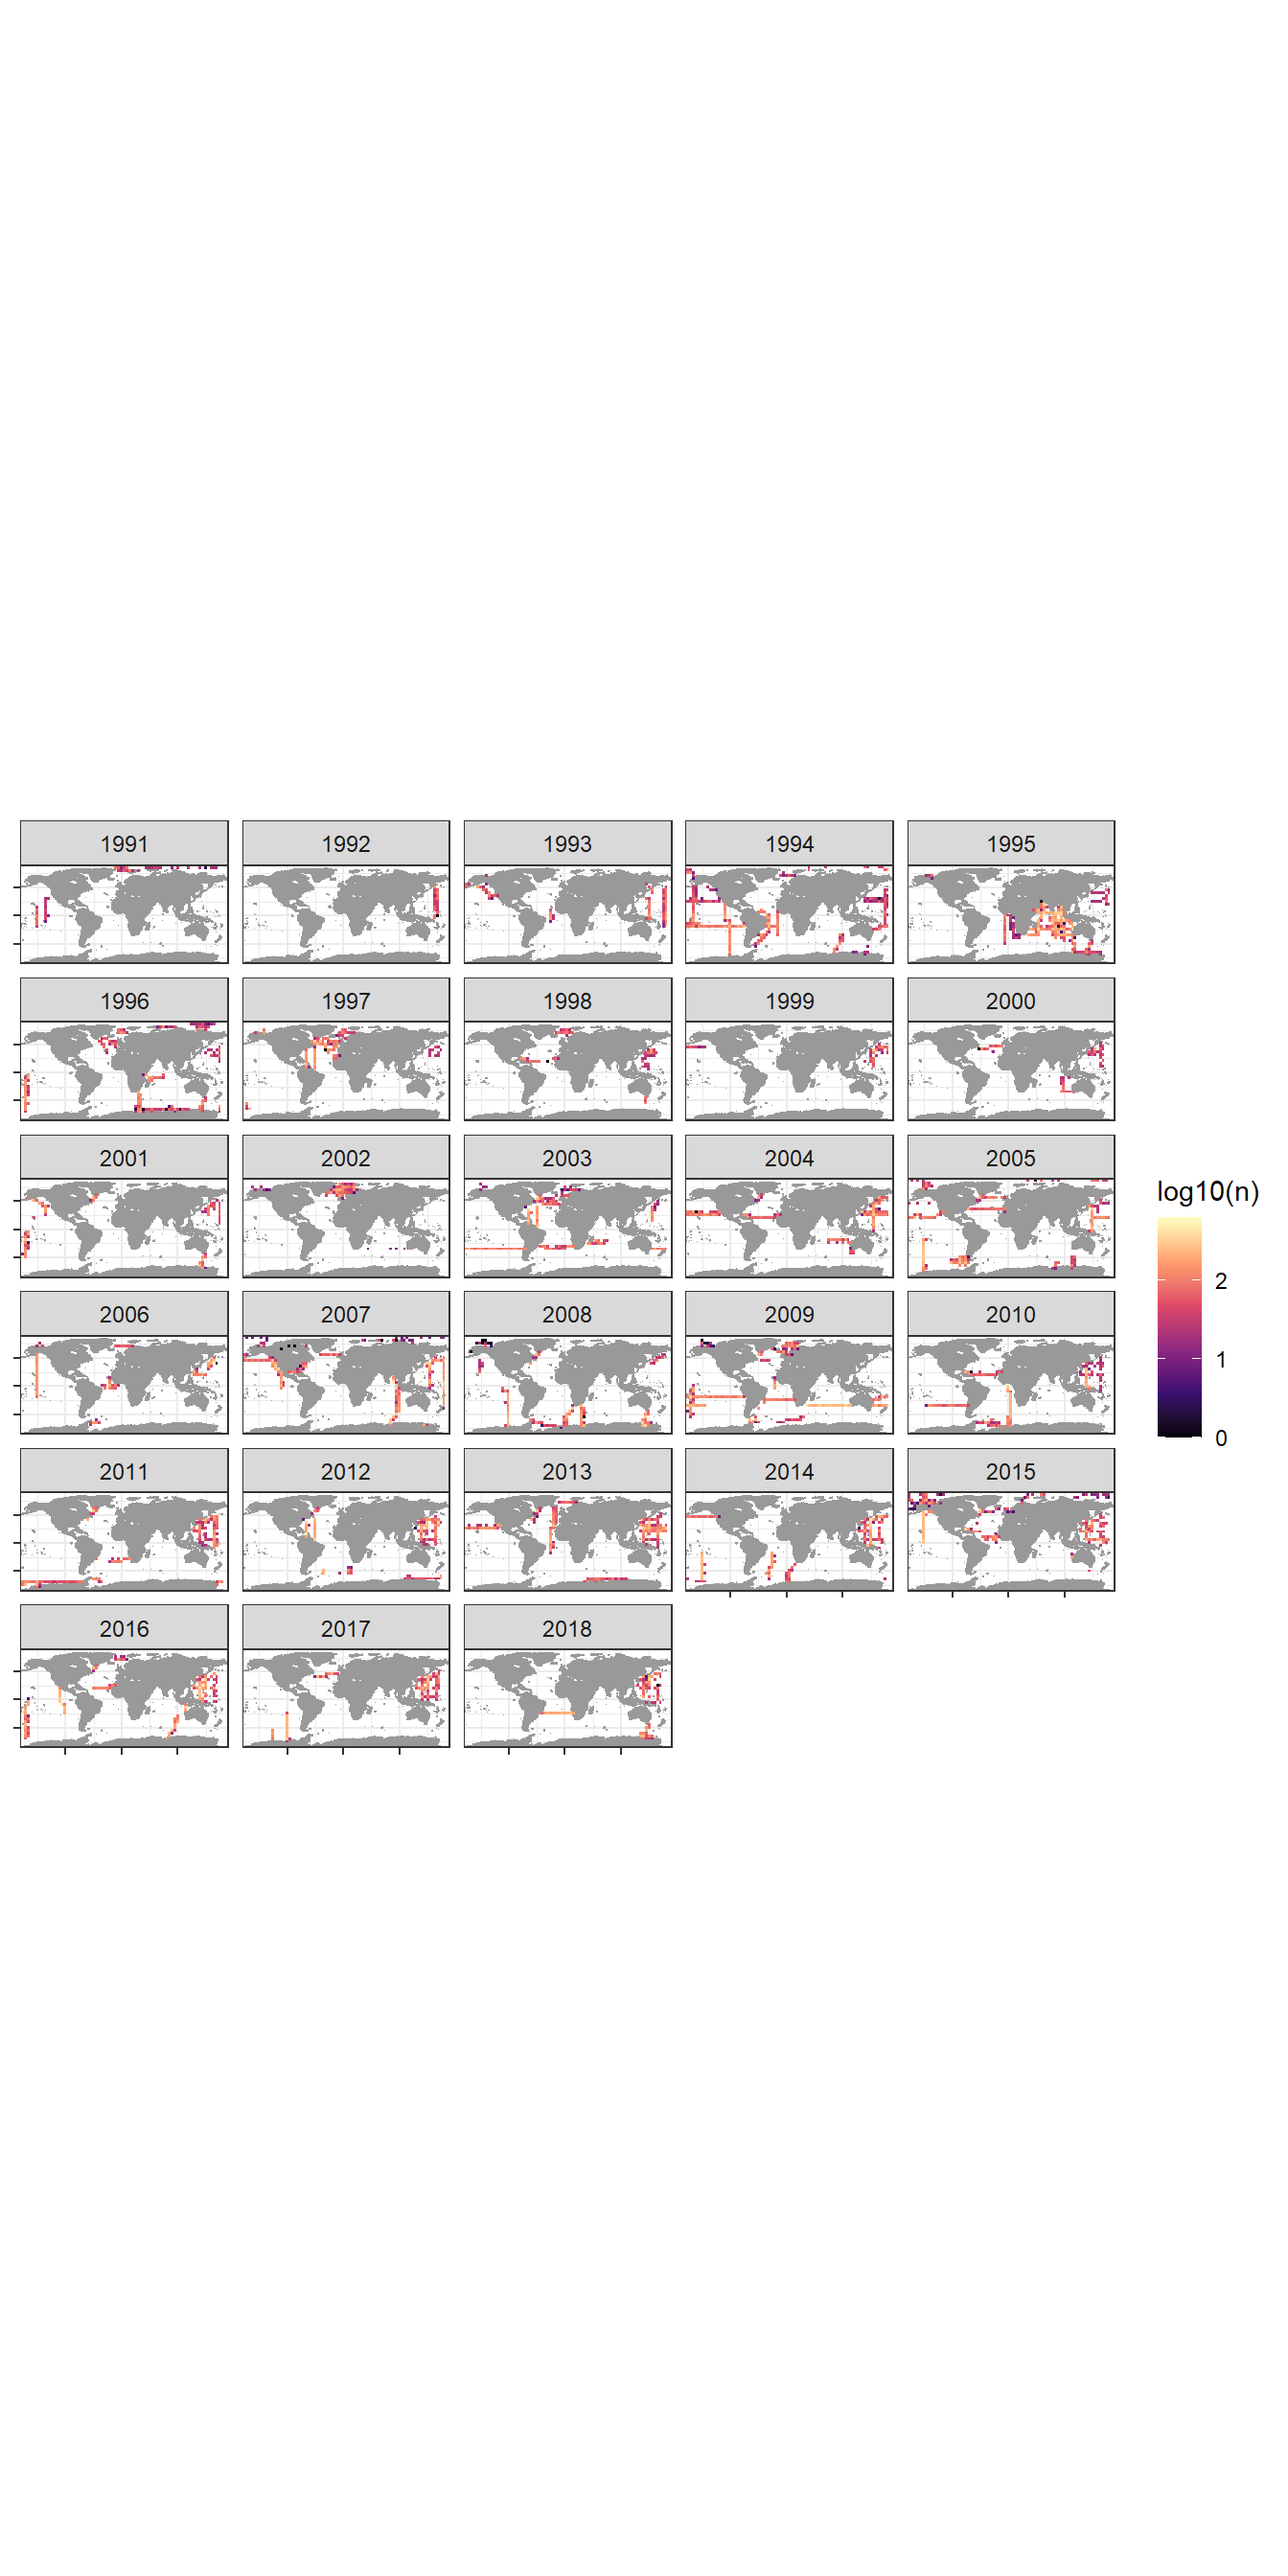
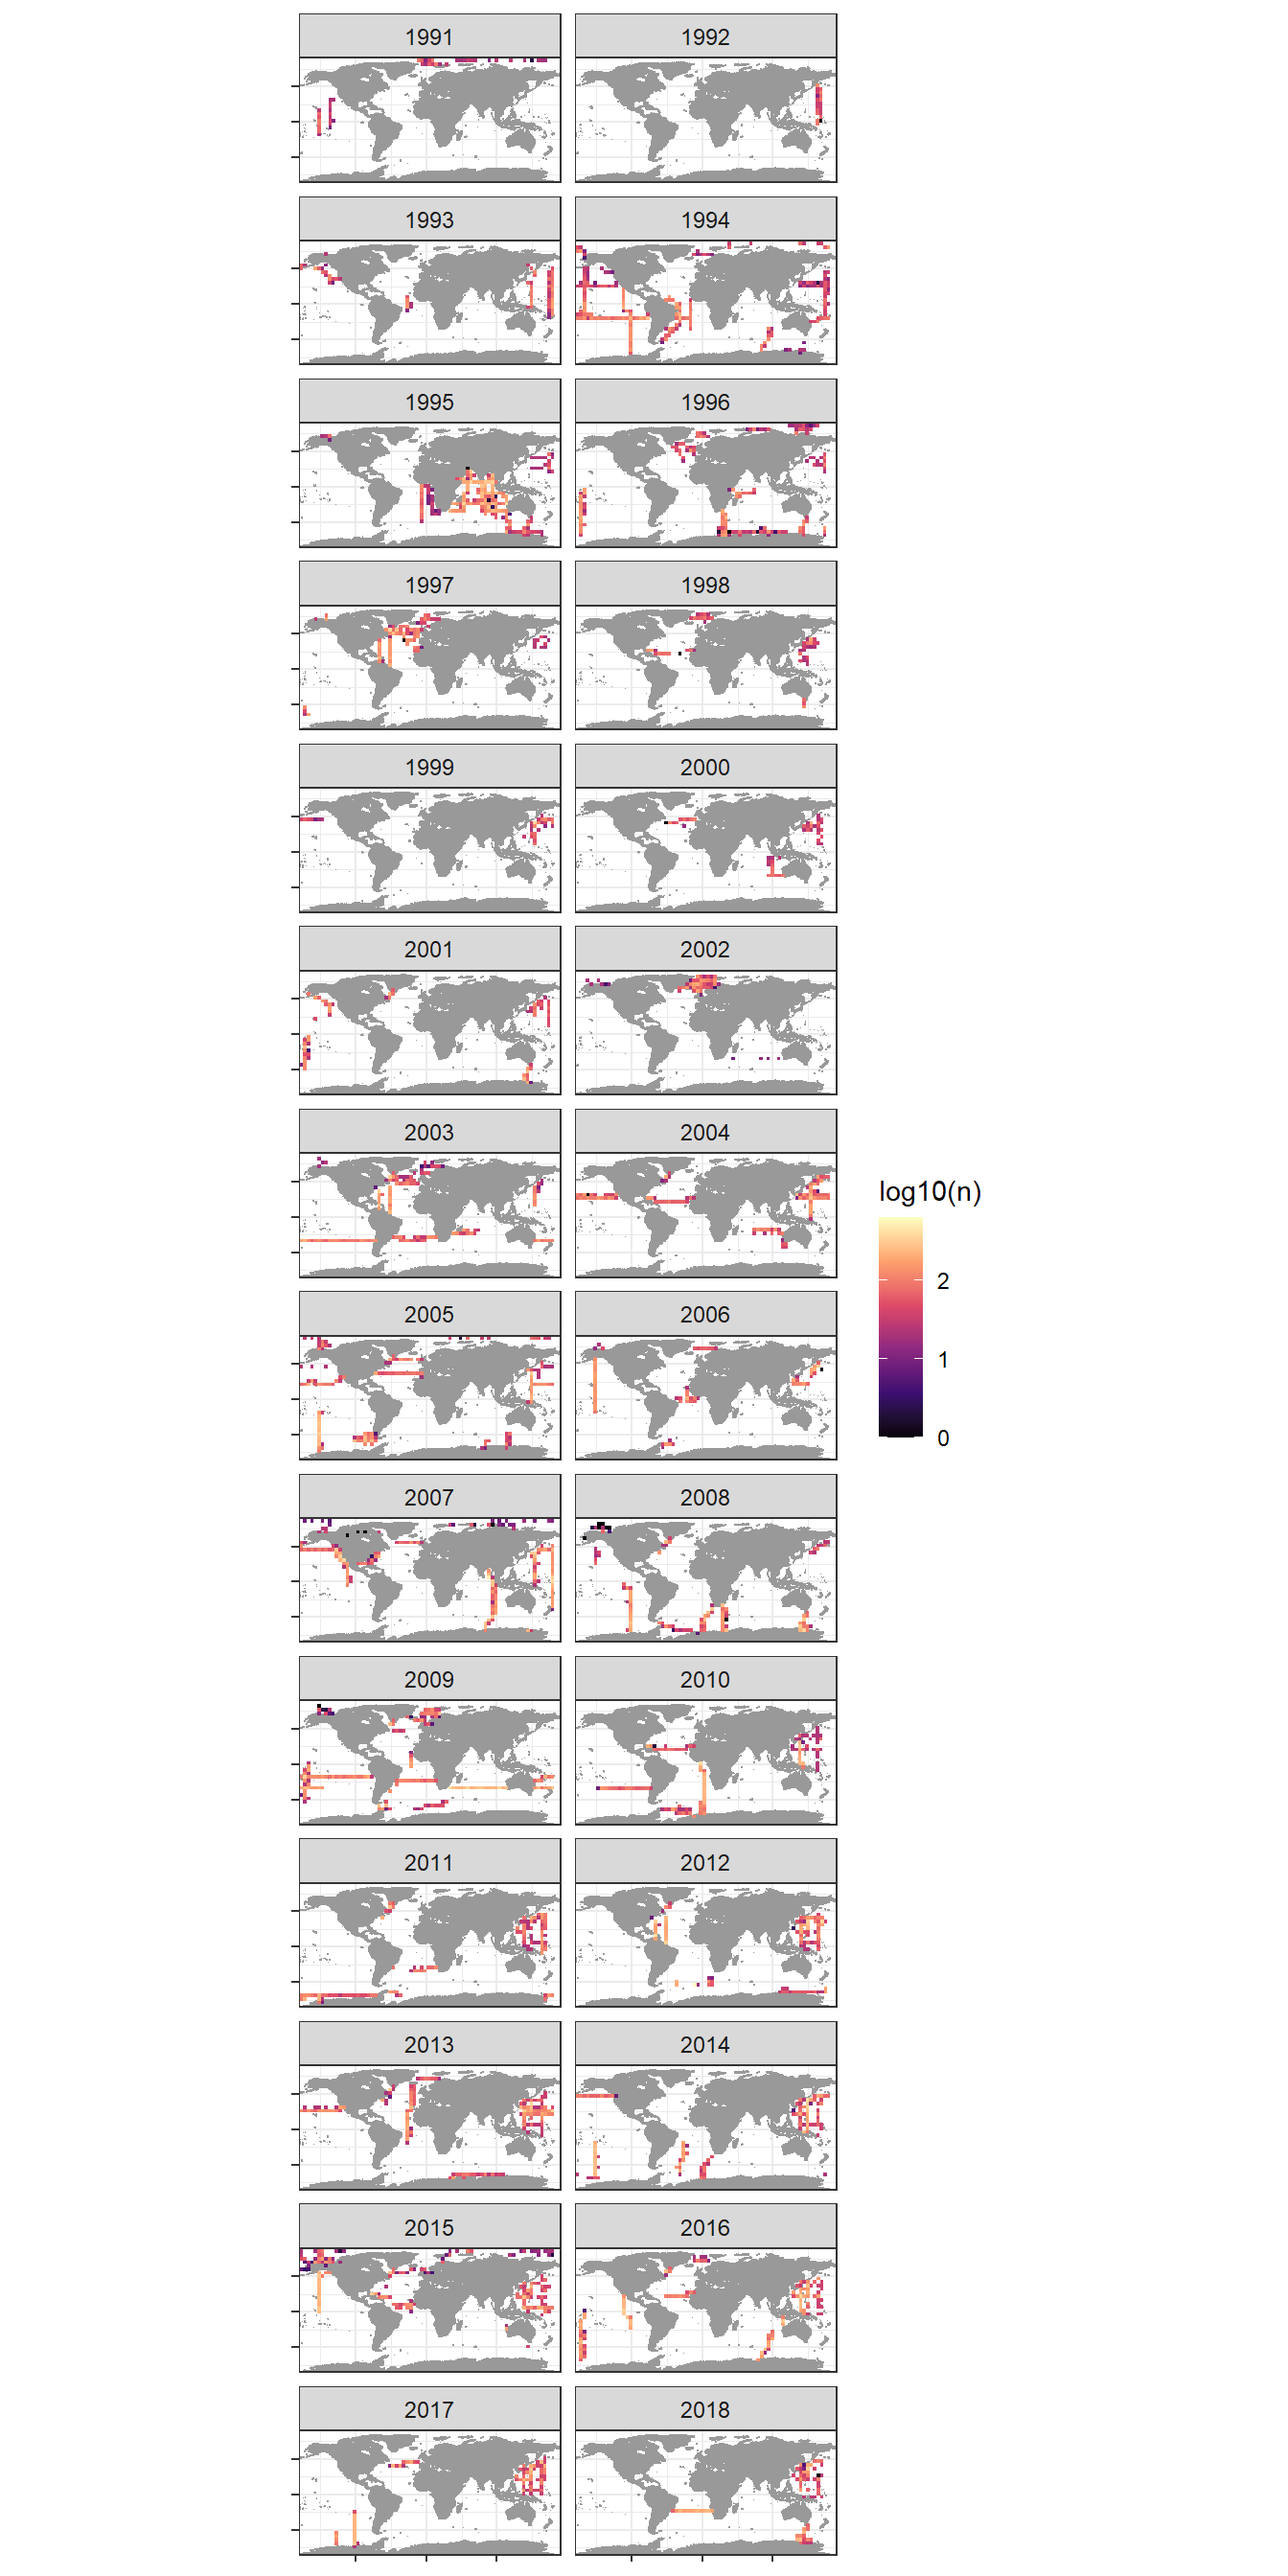
Build site.

diff --git a/docs/data_base.html b/docs/data_base.html
@@ -443,16 +443,16 @@ This reproducible <a href="http://rmarkdown.rstudio.com">R Markdown</a> analysis
 <div class="panel panel-default">
 <div class="panel-heading">
 <p class="panel-title">
-<a data-toggle="collapse" data-parent="#workflowr-checks" href="#strongRepositoryversionstrongahrefhttpsgithubcomjensdanielmuellerCanteMLRtree9f12d15c41435be1a994e0111c1c4f13ba5023b2targetblank9f12d15a"> <span class="glyphicon glyphicon-ok text-success" aria-hidden="true"></span> <strong>Repository version:</strong> <a href="https://github.com/jens-daniel-mueller/Cant_eMLR/tree/9f12d15c41435be1a994e0111c1c4f13ba5023b2" target="_blank">9f12d15</a> </a>
+<a data-toggle="collapse" data-parent="#workflowr-checks" href="#strongRepositoryversionstrongahrefhttpsgithubcomjensdanielmuellerCanteMLRtree8de2366df0b1744234e44570b77f1e00ccc12120targetblank8de2366a"> <span class="glyphicon glyphicon-ok text-success" aria-hidden="true"></span> <strong>Repository version:</strong> <a href="https://github.com/jens-daniel-mueller/Cant_eMLR/tree/8de2366df0b1744234e44570b77f1e00ccc12120" target="_blank">8de2366</a> </a>
 </p>
 </div>
[2 lines of base64/hex data omitted]
 <div class="panel-body">
 <p>
 Great! You are using Git for version control. Tracking code development and connecting the code version to the results is critical for reproducibility.
 </p>
 <p>
-The results in this page were generated with repository version <a href="https://github.com/jens-daniel-mueller/Cant_eMLR/tree/9f12d15c41435be1a994e0111c1c4f13ba5023b2" target="_blank">9f12d15</a>. See the <em>Past versions</em> tab to see a history of the changes made to the R Markdown and HTML files.
+The results in this page were generated with repository version <a href="https://github.com/jens-daniel-mueller/Cant_eMLR/tree/8de2366df0b1744234e44570b77f1e00ccc12120" target="_blank">8de2366</a>. See the <em>Past versions</em> tab to see a history of the changes made to the R Markdown and HTML files.
 </p>
 <p>
 Note that you need to be careful to ensure that all relevant files for the analysis have been committed to Git prior to generating the results (you can use <code>wflow_publish</code> or <code>wflow_git_commit</code>). workflowr only checks the R Markdown file, but you know if there are other scripts or data files that it depends on. Below is the status of the Git repository when the results were generated:
@@ -507,6 +507,40 @@ Message
 </tr>
 </thead>
 <tbody>
+<tr>
+<td>
+Rmd
+</td>
+<td>
+<a href="https://github.com/jens-daniel-mueller/Cant_eMLR/blob/8de2366df0b1744234e44570b77f1e00ccc12120/analysis/data_base.Rmd" target="_blank">8de2366</a>
+</td>
+<td>
+jens-daniel-mueller
+</td>
+<td>
+2020-07-08
+</td>
+<td>
+Data cleaning, gridding, coverage plots
+</td>
+</tr>
+<tr>
+<td>
+html
+</td>
+<td>
+<a href="https://rawcdn.githack.com/jens-daniel-mueller/Cant_eMLR/6f0ac0fdfe06f0bb5d7a6a9cf0d56d6d16b8c522/docs/data_base.html" target="_blank">6f0ac0f</a>
+</td>
+<td>
+jens-daniel-mueller
+</td>
+<td>
+2020-07-08
+</td>
+<td>
+Build site.
+</td>
+</tr>
 <tr>
 <td>
 Rmd
@@ -718,7 +752,7 @@ GLODAP_map_decade %&gt;%
   scale_x_continuous(breaks = seq(-180, 180, 30))+
   scale_y_continuous(breaks = seq(-90, 90, 30))+
   coord_quickmap(expand = FALSE)+
-  facet_wrap(~decade)</code></pre>
+  facet_wrap(~decade, ncol=1)</code></pre>
 <p><img src="figure/data_base.Rmd/coverage_maps_decade-1.png" width="672" style="display: block; margin: auto;" /></p>
 <pre class="r"><code>GLODAP_map_year %&gt;%
   filter(year &gt; 1990) %&gt;% 
@@ -727,7 +761,7 @@ GLODAP_map_decade %&gt;%
   geom_raster()+
   scale_fill_viridis_c(option = &quot;magma&quot;)+
   coord_quickmap(expand = FALSE)+
-  facet_wrap(~year, ncol = 5)+
+  facet_wrap(~year, ncol = 2)+
   theme(axis.title = element_blank(),
         axis.text = element_blank())</code></pre>
 <p><img src="figure/data_base.Rmd/coverage_maps_year-1.png" width="672" style="display: block; margin: auto;" /></p>

diff --git a/docs/license.html b/docs/license.html
@@ -380,16 +380,16 @@ This reproducible <a href="http://rmarkdown.rstudio.com">R Markdown</a> analysis
 <div class="panel panel-default">
 <div class="panel-heading">
 <p class="panel-title">
-<a data-toggle="collapse" data-parent="#workflowr-checks" href="#strongRepositoryversionstrongahrefhttpsgithubcomjensdanielmuellerCanteMLRtree9f12d15c41435be1a994e0111c1c4f13ba5023b2targetblank9f12d15a"> <span class="glyphicon glyphicon-ok text-success" aria-hidden="true"></span> <strong>Repository version:</strong> <a href="https://github.com/jens-daniel-mueller/Cant_eMLR/tree/9f12d15c41435be1a994e0111c1c4f13ba5023b2" target="_blank">9f12d15</a> </a>
+<a data-toggle="collapse" data-parent="#workflowr-checks" href="#strongRepositoryversionstrongahrefhttpsgithubcomjensdanielmuellerCanteMLRtree8de2366df0b1744234e44570b77f1e00ccc12120targetblank8de2366a"> <span class="glyphicon glyphicon-ok text-success" aria-hidden="true"></span> <strong>Repository version:</strong> <a href="https://github.com/jens-daniel-mueller/Cant_eMLR/tree/8de2366df0b1744234e44570b77f1e00ccc12120" target="_blank">8de2366</a> </a>
 </p>
 </div>
[2 lines of base64/hex data omitted]
 <div class="panel-body">
 <p>
 Great! You are using Git for version control. Tracking code development and connecting the code version to the results is critical for reproducibility.
 </p>
 <p>
-The results in this page were generated with repository version <a href="https://github.com/jens-daniel-mueller/Cant_eMLR/tree/9f12d15c41435be1a994e0111c1c4f13ba5023b2" target="_blank">9f12d15</a>. See the <em>Past versions</em> tab to see a history of the changes made to the R Markdown and HTML files.
+The results in this page were generated with repository version <a href="https://github.com/jens-daniel-mueller/Cant_eMLR/tree/8de2366df0b1744234e44570b77f1e00ccc12120" target="_blank">8de2366</a>. See the <em>Past versions</em> tab to see a history of the changes made to the R Markdown and HTML files.
 </p>
 <p>
 Note that you need to be careful to ensure that all relevant files for the analysis have been committed to Git prior to generating the results (you can use <code>wflow_publish</code> or <code>wflow_git_commit</code>). workflowr only checks the R Markdown file, but you know if there are other scripts or data files that it depends on. Below is the status of the Git repository when the results were generated:
@@ -444,6 +444,23 @@ Message
 </tr>
 </thead>
 <tbody>
+<tr>
+<td>
+html
+</td>
+<td>
+<a href="https://rawcdn.githack.com/jens-daniel-mueller/Cant_eMLR/6f0ac0fdfe06f0bb5d7a6a9cf0d56d6d16b8c522/docs/license.html" target="_blank">6f0ac0f</a>
+</td>
+<td>
+jens-daniel-mueller
+</td>
+<td>
+2020-07-08
+</td>
+<td>
+Build site.
+</td>
+</tr>
 <tr>
 <td>
 html

diff --git a/docs/index.html b/docs/index.html
@@ -380,16 +380,16 @@ This reproducible <a href="http://rmarkdown.rstudio.com">R Markdown</a> analysis
 <div class="panel panel-default">
 <div class="panel-heading">
 <p class="panel-title">
-<a data-toggle="collapse" data-parent="#workflowr-checks" href="#strongRepositoryversionstrongahrefhttpsgithubcomjensdanielmuellerCanteMLRtree9f12d15c41435be1a994e0111c1c4f13ba5023b2targetblank9f12d15a"> <span class="glyphicon glyphicon-ok text-success" aria-hidden="true"></span> <strong>Repository version:</strong> <a href="https://github.com/jens-daniel-mueller/Cant_eMLR/tree/9f12d15c41435be1a994e0111c1c4f13ba5023b2" target="_blank">9f12d15</a> </a>
+<a data-toggle="collapse" data-parent="#workflowr-checks" href="#strongRepositoryversionstrongahrefhttpsgithubcomjensdanielmuellerCanteMLRtree8de2366df0b1744234e44570b77f1e00ccc12120targetblank8de2366a"> <span class="glyphicon glyphicon-ok text-success" aria-hidden="true"></span> <strong>Repository version:</strong> <a href="https://github.com/jens-daniel-mueller/Cant_eMLR/tree/8de2366df0b1744234e44570b77f1e00ccc12120" target="_blank">8de2366</a> </a>
 </p>
 </div>
[2 lines of base64/hex data omitted]
 <div class="panel-body">
 <p>
 Great! You are using Git for version control. Tracking code development and connecting the code version to the results is critical for reproducibility.
 </p>
 <p>
-The results in this page were generated with repository version <a href="https://github.com/jens-daniel-mueller/Cant_eMLR/tree/9f12d15c41435be1a994e0111c1c4f13ba5023b2" target="_blank">9f12d15</a>. See the <em>Past versions</em> tab to see a history of the changes made to the R Markdown and HTML files.
+The results in this page were generated with repository version <a href="https://github.com/jens-daniel-mueller/Cant_eMLR/tree/8de2366df0b1744234e44570b77f1e00ccc12120" target="_blank">8de2366</a>. See the <em>Past versions</em> tab to see a history of the changes made to the R Markdown and HTML files.
 </p>
 <p>
 Note that you need to be careful to ensure that all relevant files for the analysis have been committed to Git prior to generating the results (you can use <code>wflow_publish</code> or <code>wflow_git_commit</code>). workflowr only checks the R Markdown file, but you know if there are other scripts or data files that it depends on. Below is the status of the Git repository when the results were generated:
@@ -444,6 +444,23 @@ Message
 </tr>
 </thead>
 <tbody>
+<tr>
+<td>
+html
+</td>
+<td>
+<a href="https://rawcdn.githack.com/jens-daniel-mueller/Cant_eMLR/6f0ac0fdfe06f0bb5d7a6a9cf0d56d6d16b8c522/docs/index.html" target="_blank">6f0ac0f</a>
+</td>
+<td>
+jens-daniel-mueller
+</td>
+<td>
+2020-07-08
+</td>
+<td>
+Build site.
+</td>
+</tr>
 <tr>
 <td>
 html
